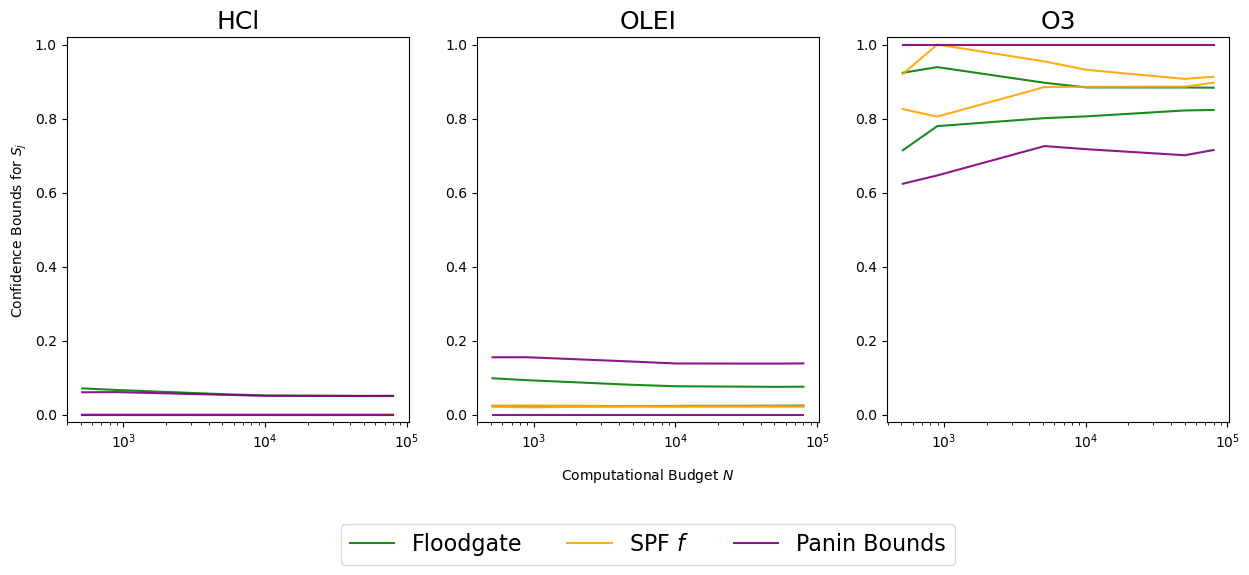
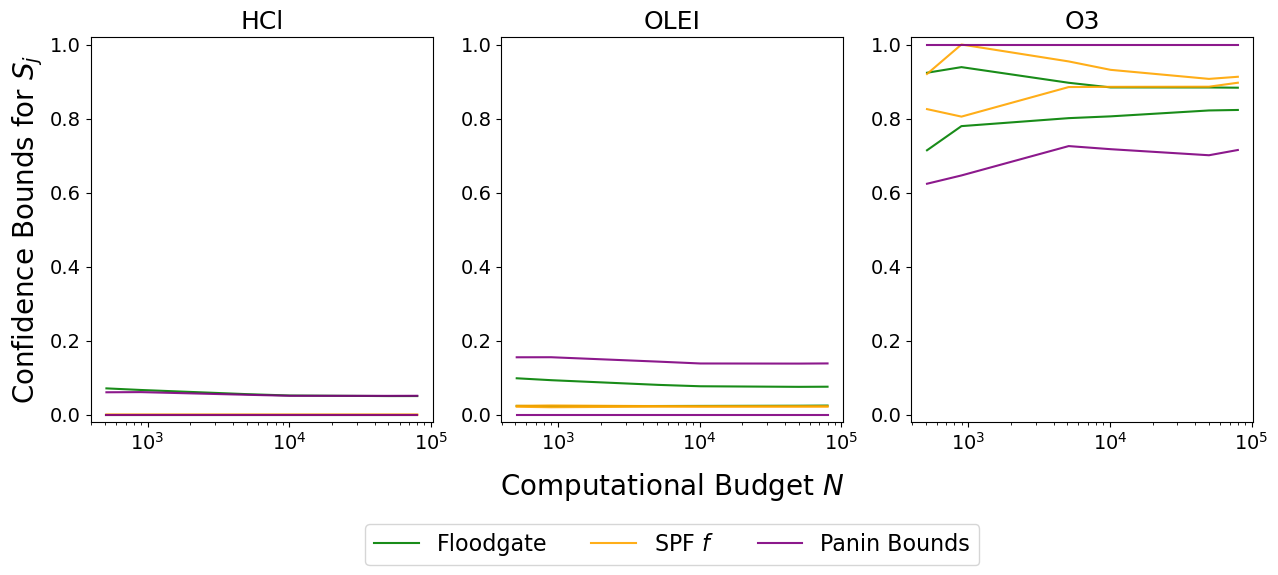
fixed plotting scripts

diff --git a/plotting_scripts/CBMZ.py b/plotting_scripts/CBMZ.py
@@ -4,9 +4,9 @@ from matplotlib import pyplot as plt
 import os
 
 import sys
-sys.path.append('../')
+sys.path.append('../config/')
 
-from config.config import CBMZ_inputs
+from config import CBMZ_inputs
 
 
 FIG_DIR = '../figs/'
@@ -22,6 +22,16 @@ plot_subset = [2, 45, 10]
 
 
 ### Figure 3 ###
+# Plot formatting
+plt.rc('font', size=6)           # controls default text sizes
+plt.rc('axes', titlesize=18)     # fontsize of the axes title
+plt.rc('axes', labelsize=20)     # fontsize of the x and y labels
+plt.rc('xtick', labelsize=14)    # fontsize of the tick labels
+plt.rc('ytick', labelsize=14)    # fontsize of the tick labels
+plt.rc('legend', fontsize=16)    # legend fontsize
+plt.rc('figure', titlesize=24)   # fontsize of the figure title
+
+
 fig, ax = plt.subplots(1, 3, figsize=(15,5))
 
 floodgate = np.load(DATA_PATH.format('floodgate'))
@@ -38,15 +48,6 @@ for (i, idx) in enumerate(plot_subset):
     ax[i].plot(sample_sizes, panin[:,idx,0], color='purple', ls='-', alpha=0.9, label='Panin Bounds')
     ax[i].plot(sample_sizes, panin[:,idx,1], color='purple', ls='-', alpha=0.9)
 
-
-# Plot formatting
-plt.rc('font', size=6)           # controls default text sizes
-plt.rc('axes', titlesize=18)     # fontsize of the axes title
-plt.rc('axes', labelsize=20)     # fontsize of the x and y labels
-plt.rc('xtick', labelsize=14)    # fontsize of the tick labels
-plt.rc('ytick', labelsize=14)    # fontsize of the tick labels
-plt.rc('legend', fontsize=16)    # legend fontsize
-plt.rc('figure', titlesize=24)   # fontsize of the figure title
 
 x_ticks = [100, 1000, 10000]
 x_tick_labs = ['100', '1000', '10000']
@@ -67,6 +68,16 @@ plt.savefig(FIG_DIR + 'CBMZ_bounds.png', bbox_inches="tight")
 
 
 ### Figure 4 ###
+# Plot formatting
+plt.rc('font', size=24)          # controls default text sizes
+plt.rc('axes', titlesize=42)     # fontsize of the axes title
+plt.rc('axes', labelsize=85)     # fontsize of the x and y labels
+plt.rc('xtick', labelsize=38)    # fontsize of the tick labels
+plt.rc('ytick', labelsize=38)    # fontsize of the tick labels
+plt.rc('legend', fontsize=55)    # legend fontsize
+plt.rc('figure', titlesize=60)   # fontsize of the figure title
+
+
 fig, ax = plt.subplots(13, 8, figsize=(85,130))
 
 for (i, ax_) in enumerate(ax.ravel()[:d]):
@@ -79,14 +90,6 @@ for (i, ax_) in enumerate(ax.ravel()[:d]):
     ax_.plot(sample_sizes, panin[:,i,0], color='purple', ls='-', alpha=0.9, label='Panin Bounds')
     ax_.plot(sample_sizes, panin[:,i,1], color='purple', ls='-', alpha=0.9)
 
-# Plot formatting
-plt.rc('font', size=24)          # controls default text sizes
-plt.rc('axes', titlesize=42)     # fontsize of the axes title
-plt.rc('axes', labelsize=85)     # fontsize of the x and y labels
-plt.rc('xtick', labelsize=38)    # fontsize of the tick labels
-plt.rc('ytick', labelsize=38)    # fontsize of the tick labels
-plt.rc('legend', fontsize=55)    # legend fontsize
-plt.rc('figure', titlesize=60)   # fontsize of the figure title
 
 for (i, ax_) in enumerate(ax.ravel()[:d]):
     ax_.set(xticks=x_ticks, xscale='log', title=X_labels[i])

diff --git a/plotting_scripts/Hymod.py b/plotting_scripts/Hymod.py
@@ -4,9 +4,9 @@ from matplotlib import pyplot as plt
 import os
 
 import sys
-sys.path.append('../')
+sys.path.append('../config/')
 
-from config.config import Hymod_inputs
+from config import Hymod_inputs
 
 
 FIG_DIR = '../figs/'
@@ -18,6 +18,22 @@ sample_sizes = [100, 250, 500, 1000, 5000, 10000, 50000]
 X_labels = Hymod_inputs['labels']
 d = len(X_labels)
 gt = np.load(DATA_DIR.format('.','.') + 'ground_truth.npy')
+
+
+# Plot formatting
+SMALL_SIZE = 10
+MEDIUM_SIZE = 18
+BIG_SIZE = 20
+BIGGER_SIZE = 24
+HUGE_SIZE = 28
+
+plt.rc('font', size=SMALL_SIZE)          # controls default text sizes
+plt.rc('axes', titlesize=BIGGER_SIZE)     # fontsize of the axes title
+plt.rc('axes', labelsize=BIGGER_SIZE)    # fontsize of the x and y labels
+plt.rc('xtick', labelsize=MEDIUM_SIZE)    # fontsize of the tick labels
+plt.rc('ytick', labelsize=MEDIUM_SIZE)    # fontsize of the tick labels
+plt.rc('legend', fontsize=BIG_SIZE)    # legend fontsize
+plt.rc('figure', titlesize=BIGGER_SIZE)  # fontsize of the figure title
 
 
 ### Figure 1 ###
@@ -92,20 +108,6 @@ for i in range(d):
     ax[1,i].plot(sample_sizes, spf_surrogate_cov[:,i], color='orange', alpha=0.6, ls='--')
 
 
-# Plot formatting
-SMALL_SIZE = 10
-MEDIUM_SIZE = 18
-BIG_SIZE = 20
-BIGGER_SIZE = 24
-HUGE_SIZE = 28
-
-plt.rc('font', size=SMALL_SIZE)          # controls default text sizes
-plt.rc('axes', titlesize=BIGGER_SIZE)     # fontsize of the axes title
-plt.rc('axes', labelsize=BIGGER_SIZE)    # fontsize of the x and y labels
-plt.rc('xtick', labelsize=MEDIUM_SIZE)    # fontsize of the tick labels
-plt.rc('ytick', labelsize=MEDIUM_SIZE)    # fontsize of the tick labels
-plt.rc('legend', fontsize=BIG_SIZE)    # legend fontsize
-plt.rc('figure', titlesize=BIGGER_SIZE)  # fontsize of the figure title
 
 x_ticks = [100, 1000, 10000, 100000]
 x_tick_labs = ['100', '1000', '10000', '100000']
